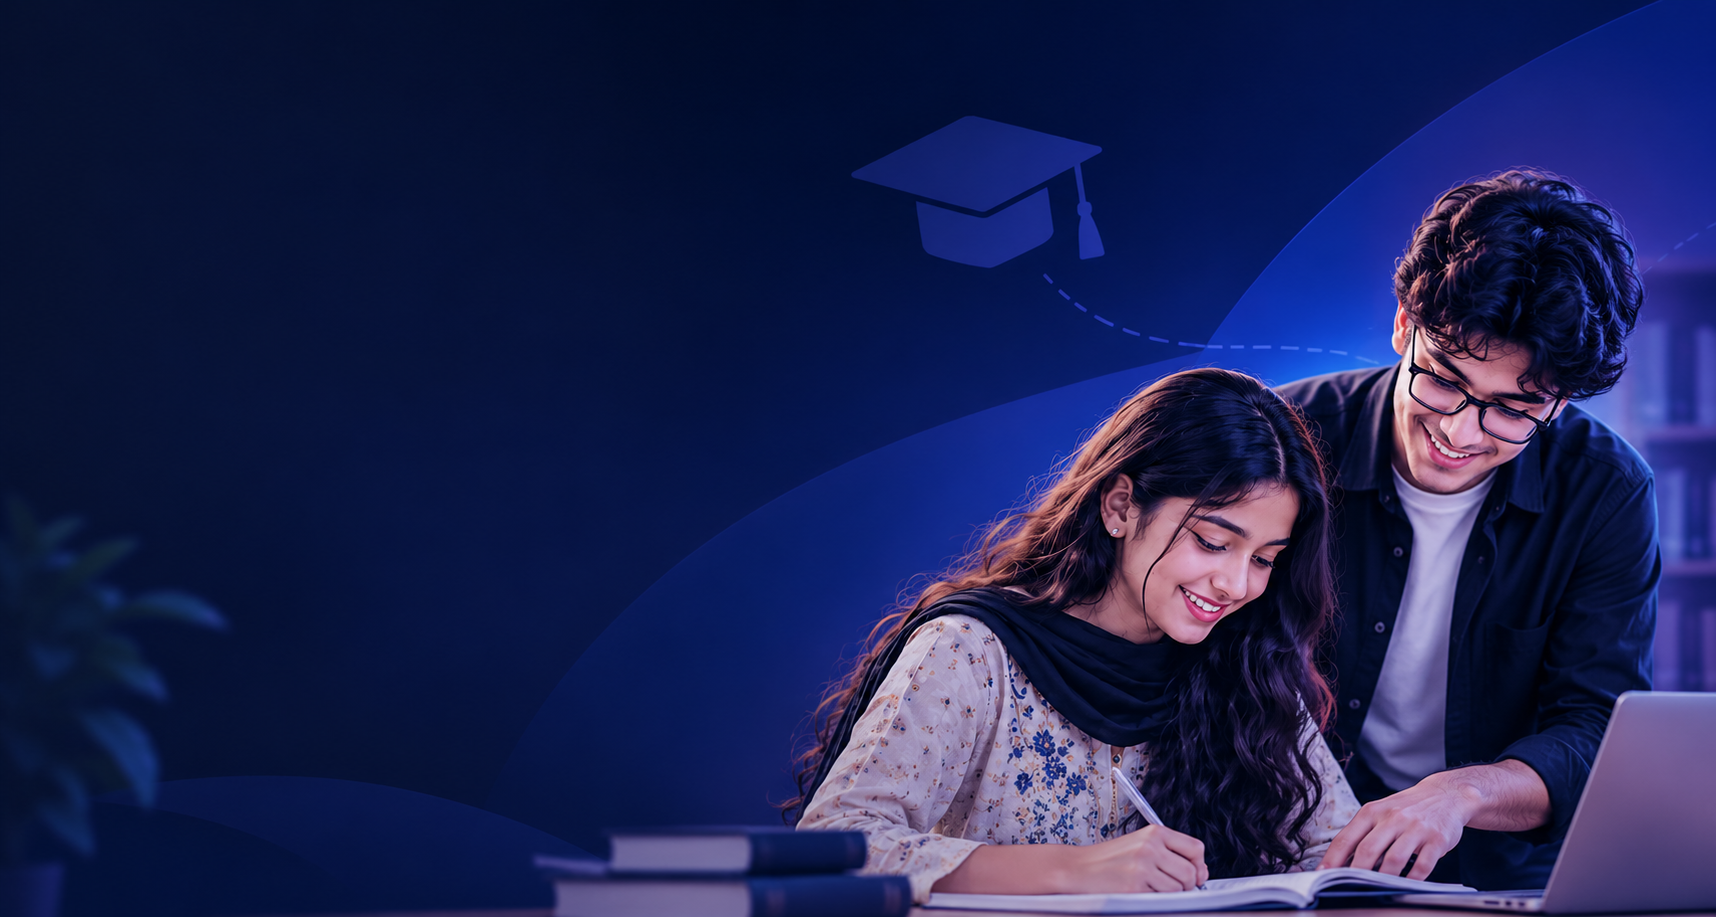
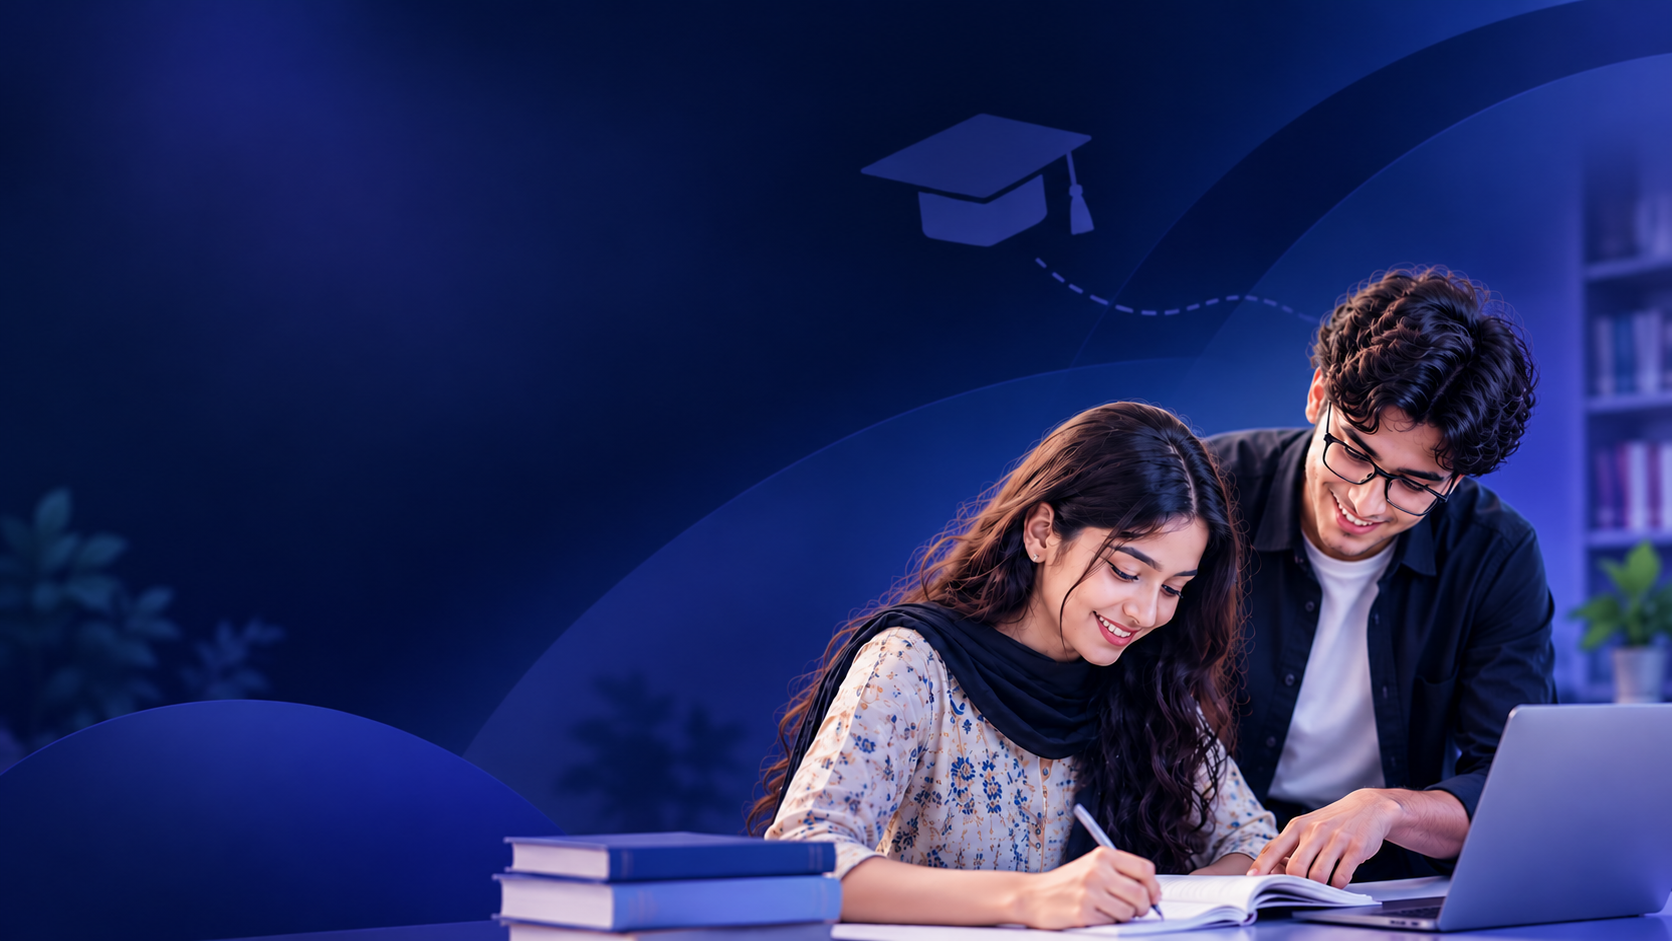
style: liquid glass navbar items with hover shine

diff --git a/src/components/ui/home/Hero.tsx b/src/components/ui/home/Hero.tsx
@@ -85,8 +85,8 @@ export default function Hero() {
       <div className="absolute inset-0 hidden lg:block">
         <ThemedImage className="object-cover object-center" />
         {/* Light overlay */}
-        <div className="absolute inset-0 bg-gradient-to-r from-[#F5F0E8]/95 via-[#F5F0E8]/65 to-transparent dark:hidden" />
-        <div className="absolute inset-0 bg-gradient-to-t from-[#F5F0E8]/70 via-transparent to-[#F5F0E8]/30 dark:hidden" />
+        <div className="absolute inset-0 bg-gradient-to-r from-[#F5F0E8]/90 via-[#F5F0E8]/35 to-transparent dark:hidden" />
+        <div className="absolute inset-0 bg-gradient-to-t from-[#F5F0E8]/50 via-transparent to-transparent dark:hidden" />
         {/* Dark overlay */}
         <div className="absolute inset-0 hidden bg-gradient-to-r from-[#101828]/90 via-[#101828]/55 to-transparent dark:block" />
         <div className="absolute inset-0 hidden bg-gradient-to-t from-[#0B1020]/80 via-transparent to-[#0B1020]/35 dark:block" />
@@ -94,9 +94,9 @@ export default function Hero() {
       </div>
 
       {/* Mobile / tablet: image banner on top */}
-      <div className="relative h-80 w-full sm:h-[26rem] lg:hidden">
-        <ThemedImage className="object-cover object-[65%_25%]" />
-        <div className="absolute inset-0 bg-gradient-to-b from-[#F5F0E8]/40 via-transparent to-[#F5F0E8] dark:hidden" />
+      <div className="relative h-80 w-full sm:h-[28rem] lg:hidden">
+        <ThemedImage className="object-cover object-[70%_30%]" />
+        <div className="absolute inset-0 bg-gradient-to-b from-transparent via-transparent to-[#F5F0E8] dark:hidden" />
         <div className="absolute inset-0 hidden bg-gradient-to-b from-[#0B1020]/55 via-transparent to-[#101828] dark:block" />
       </div>
 
@@ -127,11 +127,15 @@ export default function Hero() {
               {...enter(0.2)}
               className="max-w-xl text-base leading-relaxed text-[#475467] md:text-lg dark:text-white/85"
             >
-              Connect with experienced, verified tutors for personalized online and
-              home tuition. Find the right guidance to achieve your academic goals.
+              Connect with experienced, verified tutors for personalized online
+              and home tuition. Find the right guidance to achieve your academic
+              goals.
             </motion.p>
 
-            <motion.div {...enter(0.3)} className="flex flex-col gap-3 sm:flex-row sm:items-center">
+            <motion.div
+              {...enter(0.3)}
+              className="flex flex-col gap-3 sm:flex-row sm:items-center"
+            >
               <motion.div
                 whileHover={reduce ? undefined : { scale: 1.03 }}
                 whileTap={reduce ? undefined : { scale: 0.97 }}
@@ -180,7 +184,11 @@ export default function Hero() {
           <div className="hidden justify-self-end lg:block">
             <motion.div
               animate={reduce ? undefined : { y: [0, -8, 0] }}
-              transition={reduce ? undefined : { duration: 5, repeat: Infinity, ease: "easeInOut" }}
+              transition={
+                reduce
+                  ? undefined
+                  : { duration: 5, repeat: Infinity, ease: "easeInOut" }
+              }
               className="w-72 space-y-3"
             >
               <div className="rounded-2xl border border-[#101828]/10 bg-white/75 p-4 backdrop-blur-xl dark:border-white/20 dark:bg-white/10">
@@ -190,9 +198,12 @@ export default function Hero() {
                   </span>
                   <div className="leading-tight text-[#101828] dark:text-white">
                     <p className="flex items-center gap-1 text-sm font-semibold">
-                      Tanvir Ahmed <BadgeCheck className="h-4 w-4 text-[#FF7849]" />
+                      Tanvir Ahmed{" "}
+                      <BadgeCheck className="h-4 w-4 text-[#FF7849]" />
                     </p>
-                    <p className="text-xs text-[#667085] dark:text-white/70">HSC Physics · Dhaka</p>
+                    <p className="text-xs text-[#667085] dark:text-white/70">
+                      HSC Physics · Dhaka
+                    </p>
                     <p className="mt-0.5 text-xs font-semibold text-[#F2612E] dark:text-[#E9C9A5]">
                       ৳3,500 / month
                     </p>
@@ -204,7 +215,9 @@ export default function Hero() {
                 <Star className="h-5 w-5 fill-[#E9C9A5] text-[#E9C9A5]" />
                 <div className="leading-tight text-[#101828] dark:text-white">
                   <p className="text-lg font-bold">4.9</p>
-                  <p className="text-[11px] text-[#667085] dark:text-white/70">Student rating</p>
+                  <p className="text-[11px] text-[#667085] dark:text-white/70">
+                    Student rating
+                  </p>
                 </div>
               </div>
             </motion.div>
@@ -219,7 +232,11 @@ export default function Hero() {
             : {
                 initial: { opacity: 0, y: 30 },
                 animate: { opacity: 1, y: 0 },
-                transition: { duration: 0.7, delay: 0.5, ease: "easeOut" as const },
+                transition: {
+                  duration: 0.7,
+                  delay: 0.5,
+                  ease: "easeOut" as const,
+                },
               })}
           className="relative mt-12 rounded-3xl border border-white/40 bg-white/90 p-5 text-slate-900 shadow-2xl shadow-black/25 backdrop-blur-xl dark:border-white/10 dark:bg-[#101828]/70 dark:text-white md:mt-14 md:p-7"
         >
@@ -230,7 +247,9 @@ export default function Hero() {
 
           <div className="mt-5 grid gap-3 md:grid-cols-2 lg:grid-cols-[1fr_1fr_1fr_auto]">
             <div className="relative">
-              <label htmlFor="hero-subject" className="sr-only">Subject</label>
+              <label htmlFor="hero-subject" className="sr-only">
+                Subject
+              </label>
               <BookOpen className="pointer-events-none absolute left-4 top-1/2 h-4 w-4 -translate-y-1/2 text-[#FF7849]" />
               <select
                 id="hero-subject"
@@ -240,13 +259,17 @@ export default function Hero() {
               >
                 <option value="">What do you want to learn?</option>
                 {SUBJECTS.map((s) => (
-                  <option key={s} value={s}>{s}</option>
+                  <option key={s} value={s}>
+                    {s}
+                  </option>
                 ))}
               </select>
             </div>
 
             <div className="relative">
-              <label htmlFor="hero-district" className="sr-only">District</label>
+              <label htmlFor="hero-district" className="sr-only">
+                District
+              </label>
               <MapPin className="pointer-events-none absolute left-4 top-1/2 h-4 w-4 -translate-y-1/2 text-[#FF7849]" />
               <select
                 id="hero-district"
@@ -256,13 +279,17 @@ export default function Hero() {
               >
                 <option value="">Select your district</option>
                 {DISTRICTS.map((d) => (
-                  <option key={d} value={d}>{d}</option>
+                  <option key={d} value={d}>
+                    {d}
+                  </option>
                 ))}
               </select>
             </div>
 
             <div className="relative">
-              <label htmlFor="hero-type" className="sr-only">Tuition type</label>
+              <label htmlFor="hero-type" className="sr-only">
+                Tuition type
+              </label>
               <Wifi className="pointer-events-none absolute left-4 top-1/2 h-4 w-4 -translate-y-1/2 text-[#FF7849]" />
               <select
                 id="hero-type"
@@ -282,7 +309,8 @@ export default function Hero() {
               whileTap={reduce ? undefined : { scale: 0.97 }}
               className="btn-accent flex h-12 items-center justify-center gap-2 rounded-xl px-7 text-sm font-semibold md:col-span-2 lg:col-span-1"
             >
-              <Search className="h-4 w-4" /> Search Tutors <ArrowRight className="h-4 w-4" />
+              <Search className="h-4 w-4" /> Search Tutors{" "}
+              <ArrowRight className="h-4 w-4" />
             </motion.button>
           </div>
         </motion.form>

diff --git a/src/components/ui/layout/Navbar.tsx b/src/components/ui/layout/Navbar.tsx
@@ -44,16 +44,16 @@ export default function Navbar() {
   const linkClass = (href: string) => {
     const active = pathname === href;
     if (transparent) {
-      return `rounded-full px-3 py-2 text-sm font-semibold transition xl:px-4 ${
+      return `liquid-item rounded-full px-3 py-2 text-sm font-semibold xl:px-4 ${
         active
           ? "bg-[#101828]/10 text-[#101828] ring-1 ring-[#101828]/20 dark:bg-white/15 dark:text-white dark:ring-white/30"
-          : "text-[#101828]/80 hover:bg-[#101828]/5 hover:text-[#101828] dark:text-white/80 dark:hover:bg-white/10 dark:hover:text-white"
+          : "text-[#101828]/80 hover:text-[#101828] dark:text-white/80 dark:hover:text-white"
       }`;
     }
-    return `rounded-full px-3 py-2 text-sm font-medium transition xl:px-4 ${
+    return `liquid-item rounded-full px-3 py-2 text-sm font-medium xl:px-4 ${
       active
         ? "bg-primary/12 text-primary ring-1 ring-primary/25"
-        : "text-foreground/70 hover:bg-foreground/5 hover:text-foreground"
+        : "text-foreground/70 hover:text-foreground"
     }`;
   };
 
@@ -65,16 +65,16 @@ export default function Navbar() {
     }`;
 
   const outlineBtn = transparent
-    ? "inline-flex h-8 items-center justify-center rounded-lg border border-[#101828]/20 bg-white/60 px-3 text-sm font-medium text-[#101828] backdrop-blur transition hover:bg-white dark:border-white/30 dark:bg-white/10 dark:text-white dark:hover:bg-white/20"
-    : buttonVariants({ variant: "outline", size: "sm" });
+    ? "liquid-item inline-flex h-8 items-center justify-center rounded-lg border border-[#101828]/20 bg-white/60 px-3 text-sm font-medium text-[#101828] backdrop-blur dark:border-white/30 dark:bg-white/10 dark:text-white"
+    : `liquid-item ${buttonVariants({ variant: "outline", size: "sm" })}`;
 
   const ghostBtn = transparent
-    ? "inline-flex h-8 items-center justify-center rounded-lg px-3 text-sm font-medium text-[#101828]/85 transition hover:bg-[#101828]/5 dark:text-white/85 dark:hover:bg-white/10"
-    : buttonVariants({ variant: "ghost", size: "sm" });
+    ? "liquid-item inline-flex h-8 items-center justify-center rounded-lg px-3 text-sm font-medium text-[#101828]/85 dark:text-white/85"
+    : `liquid-item ${buttonVariants({ variant: "ghost", size: "sm" })}`;
 
   const chipClass = transparent
-    ? "border border-[#101828]/15 bg-white/60 backdrop-blur dark:border-white/25 dark:bg-white/10"
-    : "glass";
+    ? "liquid-item border border-[#101828]/15 bg-white/60 backdrop-blur dark:border-white/25 dark:bg-white/10"
+    : "liquid-item glass";
 
   const avatar = (size: string, px: number) =>
     user?.image ? (
@@ -103,7 +103,7 @@ export default function Navbar() {
               ? "border-[#101828]/10 bg-transparent text-[#101828] dark:border-white/15 dark:text-white"
               : open
                 ? "border-border bg-background shadow-2xl"
-                : "glass-strong border-transparent"
+                : "liquid-bar border-transparent"
           }`}
         >
           {!transparent && (

diff --git a/src/app/globals.css b/src/app/globals.css
@@ -183,6 +183,73 @@
   .dark .text-gradient {
     background-image: linear-gradient(135deg, #f8fafc 0%, #e9c9a5 55%, #ff7849 100%);
   }
+    /* Liquid glass nav items: hover e glass lens + shine */
+  .liquid-item {
+    position: relative;
+    overflow: hidden;
+    transition: transform 0.25s ease, box-shadow 0.25s ease, background 0.25s ease;
+  }
+  .liquid-item::before {
+    content: "";
+    position: absolute;
+    inset: 0;
+    border-radius: inherit;
+    background: linear-gradient(
+      115deg,
+      transparent 20%,
+      rgba(255, 255, 255, 0.55) 45%,
+      transparent 70%
+    );
+    transform: translateX(-120%);
+    transition: transform 0.6s ease;
+    pointer-events: none;
+  }
+  .liquid-item:hover {
+    background: rgba(255, 255, 255, 0.45);
+    backdrop-filter: blur(14px) saturate(180%);
+    -webkit-backdrop-filter: blur(14px) saturate(180%);
+    box-shadow:
+      0 1px 0 rgba(255, 255, 255, 0.8) inset,
+      0 8px 20px -8px rgba(16, 24, 40, 0.25);
+    transform: translateY(-1px);
+  }
+  .liquid-item:hover::before {
+    transform: translateX(120%);
+  }
+  .dark .liquid-item:hover {
+    background: rgba(255, 255, 255, 0.1);
+    box-shadow:
+      0 1px 0 rgba(255, 255, 255, 0.18) inset,
+      0 10px 24px -10px rgba(0, 0, 0, 0.6);
+  }
+  .dark .liquid-item::before {
+    background: linear-gradient(
+      115deg,
+      transparent 20%,
+      rgba(255, 255, 255, 0.22) 45%,
+      transparent 70%
+    );
+  }
+
+  /* Navbar bar e liquid glass: bevel, highlight, depth */
+  .liquid-bar {
+    background: rgba(255, 255, 255, 0.5);
+    border: 1px solid rgba(255, 255, 255, 0.7);
+    backdrop-filter: blur(24px) saturate(200%);
+    -webkit-backdrop-filter: blur(24px) saturate(200%);
+    box-shadow:
+      0 1px 0 rgba(255, 255, 255, 0.9) inset,
+      0 -1px 0 rgba(255, 255, 255, 0.25) inset,
+      0 18px 40px -18px rgba(16, 24, 40, 0.35);
+  }
+  .dark .liquid-bar {
+    background: rgba(20, 28, 47, 0.55);
+    border: 1px solid rgba(255, 255, 255, 0.12);
+    box-shadow:
+      0 1px 0 rgba(255, 255, 255, 0.14) inset,
+      0 -1px 0 rgba(255, 255, 255, 0.04) inset,
+      0 20px 44px -18px rgba(0, 0, 0, 0.7);
+  }
 }
 
 @media (prefers-reduced-motion: reduce) {
